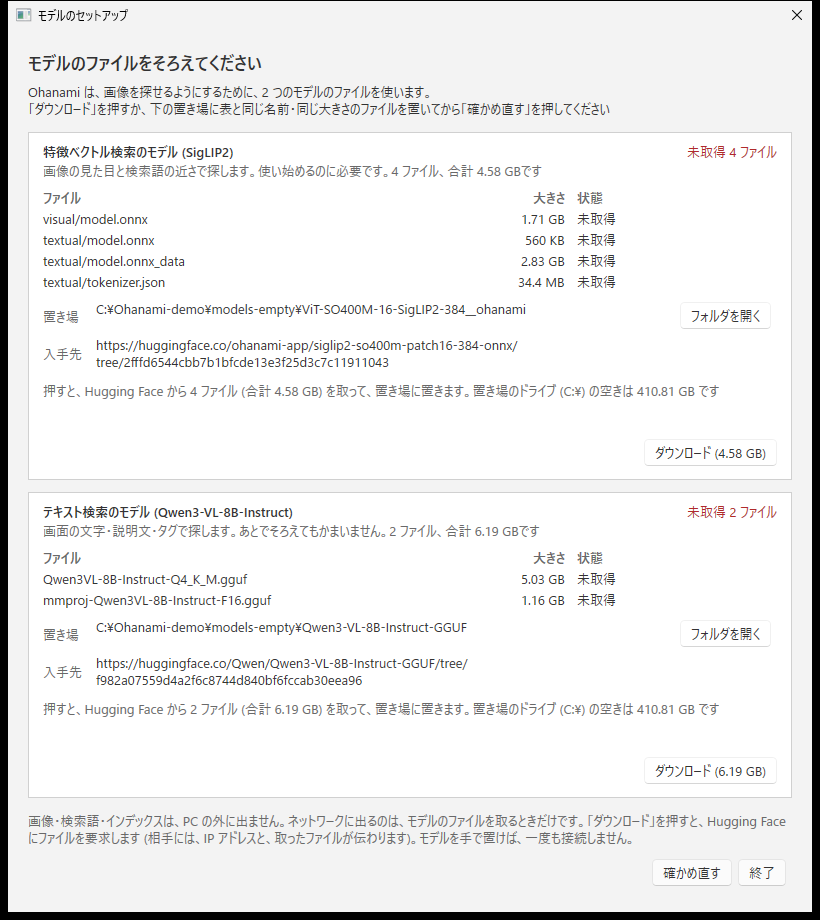
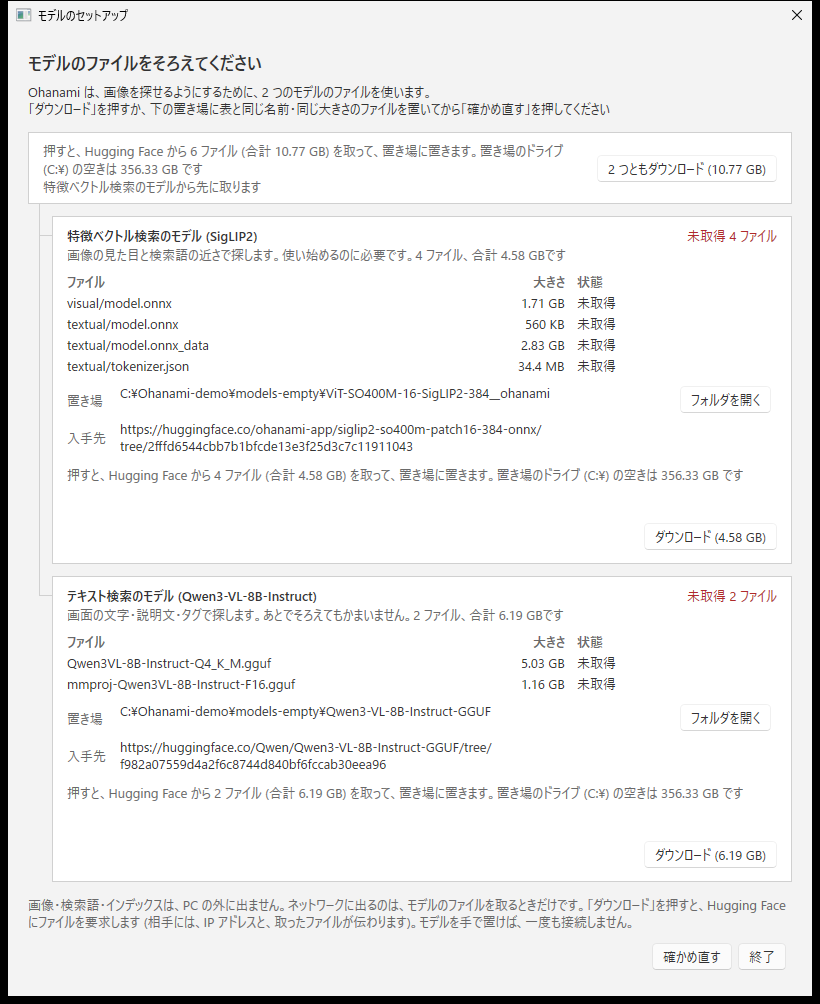
README のセットアップの画面の写真を、一括の領域と字下げした 2 つの区画の画面に撮り直し、文を合わせる
- 写真は、両方そろっていない状態(上に「2 つともダウンロード」の領域、下に細い線でつないだ 2 つの区画)
- 画像の説明と、「ダウンロードする」の説明を、新しい画面の言い方に合わせる

diff --git a/README.md b/README.md
@@ -76,7 +76,7 @@ Get-FileHash .\Ohanami-<版>-win-x64.zip -Algorithm SHA256
 
 初めて起動すると、モデルのファイルがまだ無いので、**モデルのセットアップの画面**が出ます。
 
-![モデルのセットアップの画面。特徴ベクトル検索のモデルとテキスト検索のモデルの、ファイルの一覧・置き場・入手先と、「ダウンロード」のボタンが並んでいる](assets/readme/setup.png)
+![モデルのセットアップの画面。上に「2 つともダウンロード」の領域があり、その下に、字下げして細い線でつないだ、特徴ベクトル検索のモデルとテキスト検索のモデルの 2 つの区画が並ぶ。各区画に、ファイルの一覧・置き場・入手先と、区画ごとの「ダウンロード」のボタンがある](assets/readme/setup.png)
 
 モデルは 2 組あります。
 
@@ -87,7 +87,7 @@ Get-FileHash .\Ohanami-<版>-win-x64.zip -Algorithm SHA256
 
 モデルをそろえる方法は 2 つあります。
 
-- **ダウンロードする**: 「2 つともダウンロード」を押すと、2 組のモデルを続けて (特徴ベクトル検索のモデルから先に) 取ります。片方がそろっているときは、同じ場所が「残りをダウンロード」になり、残りだけを取ります。区画ごとに取るときは、その区画の「ダウンロード」を押します。どちらも Hugging Face から取ります。押す前に、取るファイルの数・大きさ・置き場・空き容量が画面に出ます。途中で「中止」しても、取りかけのファイルは残り、次に押すと続きから取ります。取り終わると、ファイルの中身を確かめて、置き場に置きます。
+- **ダウンロードする**: 画面の上の「2 つともダウンロード」を押すと、2 組のモデルを続けて (特徴ベクトル検索のモデルから先に) 取ります。片方がそろっているときは、同じ場所が「残りをダウンロード」になり、残りだけを取ります。区画ごとに取るときは、その区画の下の「ダウンロード」を押します。どちらも Hugging Face から取ります。押す前に、取るファイルの数・大きさ・置き場・空き容量が画面に出ます。途中で「中止」しても、取りかけのファイルは残り、次に押すと続きから取ります。取り終わると、ファイルの中身を確かめて、置き場に置きます。
 - **手で置く**: 画面に出ている「入手先」(Hugging Face のページ)から、表のとおりの名前・大きさのファイルを取って、画面に出ている「置き場」に置き、「確かめ直す」を押します。「フォルダを開く」で、置き場をエクスプローラーで開けます。この方法では、アプリは一度も接続しません。
 
 特徴ベクトル検索のモデルがそろうと、アプリが始まります。テキスト検索のモデルが無いときは、セットアップの画面で「このまま始める」を選べます。そのときは、モデルがそろうまで、テキスト検索のインデックスは作れません(モデルがそろうまで、起動のたびにセットアップの画面が出ます)。
